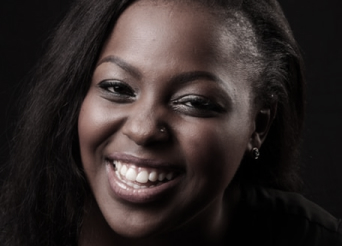
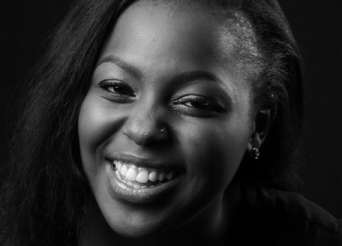
[ft #170814113] update review images and benefits content

diff --git a/src/components/sections/LandingImage.jsx b/src/components/sections/LandingImage.jsx
@@ -44,8 +44,10 @@ const Landing = () => {
         <div id={'greeting'}>
           <h2>achieve your potential</h2>
           <p>Providing you with a personal tutor to help you turn your dreams into reality.</p>
-          <p>Sign up to see our price list.</p>
-          <Button value={texts.signUp} onClick={e => signUpHandler(e)} className="services btn-link"/>
+          <div id={'dark-box'}>
+            <p>Sign up to see our price list.</p>
+            <Button value={texts.signUp} onClick={e => signUpHandler(e)} className="services btn-link"/>
+          </div>
         </div>
       </section>
   )

diff --git a/src/components/sub-sections/Benefits.jsx b/src/components/sub-sections/Benefits.jsx
@@ -32,14 +32,14 @@ const Benefits = () => {
       <div className={name} key={'d'}>
         {mobileAccordion.toggle(texts.benefits[3])}
         {
-          mobileAccordion.panel(benefits.academicCounselling)
+          mobileAccordion.panel(benefits.affordable)
         }
       </div>
       ,
       <div className={name} key={'e'}>
         {mobileAccordion.toggle(texts.benefits[4])}
         {
-          mobileAccordion.panel(benefits.affordable)
+          mobileAccordion.panel(benefits.studentRatio)
         }
       </div>
       ,

diff --git a/src/constants/benefits.js b/src/constants/benefits.js
@@ -1,5 +1,5 @@
 const sameGender = 'We offer same gender tuition to make it easy for the teacher and\n' +
-    'student to form a good relationship,. When a student likes a tutor its\n' +
+    'student to form a good relationship. When a student likes a tutor its\n' +
     'easy for him/her to change his/her attitude towards the subject being\n' +
     'tutored.';
 const  academicCounselling = 'We start our counselling sessions before even tuition begins during the\n' +

diff --git a/src/constants/texts.js b/src/constants/texts.js
@@ -1,5 +1,5 @@
 const homeTuitionInfo = '(You can access home tuition in Nairobi County and other counties Kenya)';
-const howTeeChaWorks = 'Getting a Tutor';
+const howTeeChaWorks = 'Get a Tutor';
 const reviews = 'Reviews';
 const dot = '⦁ ';
 const turquoise = 'turquoise';

diff --git a/src/styles/landing.scss b/src/styles/landing.scss
@@ -38,4 +38,10 @@
         width: 60vw;
         font-size: 4.5vw;
     }
+
+    #dark-box {
+        background-color: #F4F4F4;
+        padding: 0 3vw 3vw;
+        border-radius: 5px;
+    }
 }
